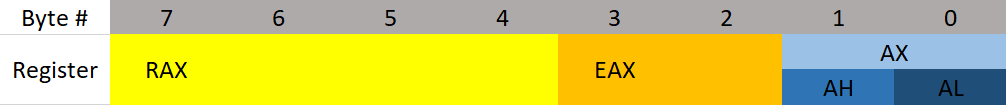
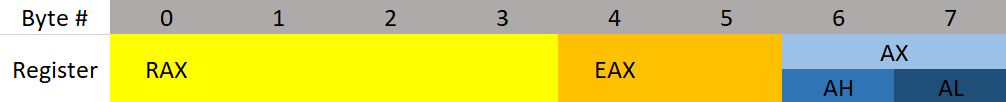
Fix 0x201 Byte Order

diff --git a/0x200-Assembly/0x201-Registers.md b/0x200-Assembly/0x201-Registers.md
@@ -53,7 +53,9 @@ Each register can actually be broken down into smaller segments which can be ref
   <img src="[ignore]/RegisterBreakdown.png">
 </p>
 
-If I put 0x12345678 into RAX, then RAX refers to 0x12345678, EAX refers to 0x5678, AX refers to 0x78, AH refers to 0x7, AL refers to 0x8. The 0x wouldn't actually be there, this is just used to denote that we're working with hexadecimal numbers.
+RAX consists of all 8 bytes which would be bytes 0-7. EAX consists of bytes 4-7, AX consists of bytes 6-7, AH consists of only byte 6, and AL consists of only byte 7 (the final byte).
+
+If 0x12345678 was loaded into a 64 bit register such as RAX, then RAX refers to 0x12345678, EAX refers to 0x5678, AX refers to 0x78, AH refers to 0x7, AL refers to 0x8. The 0x wouldn't actually be there, this is just used to denote that we're working with hexadecimal numbers.
 
 What is the "E" and the "R" for? The **"E" stands for extended**. The **"R" stands for register**. Remember, the "E registers" are 32-bit registers. When looking at x32 assembly you will see EAX instead of RAX (RAX doesn't exist on x32).
 
